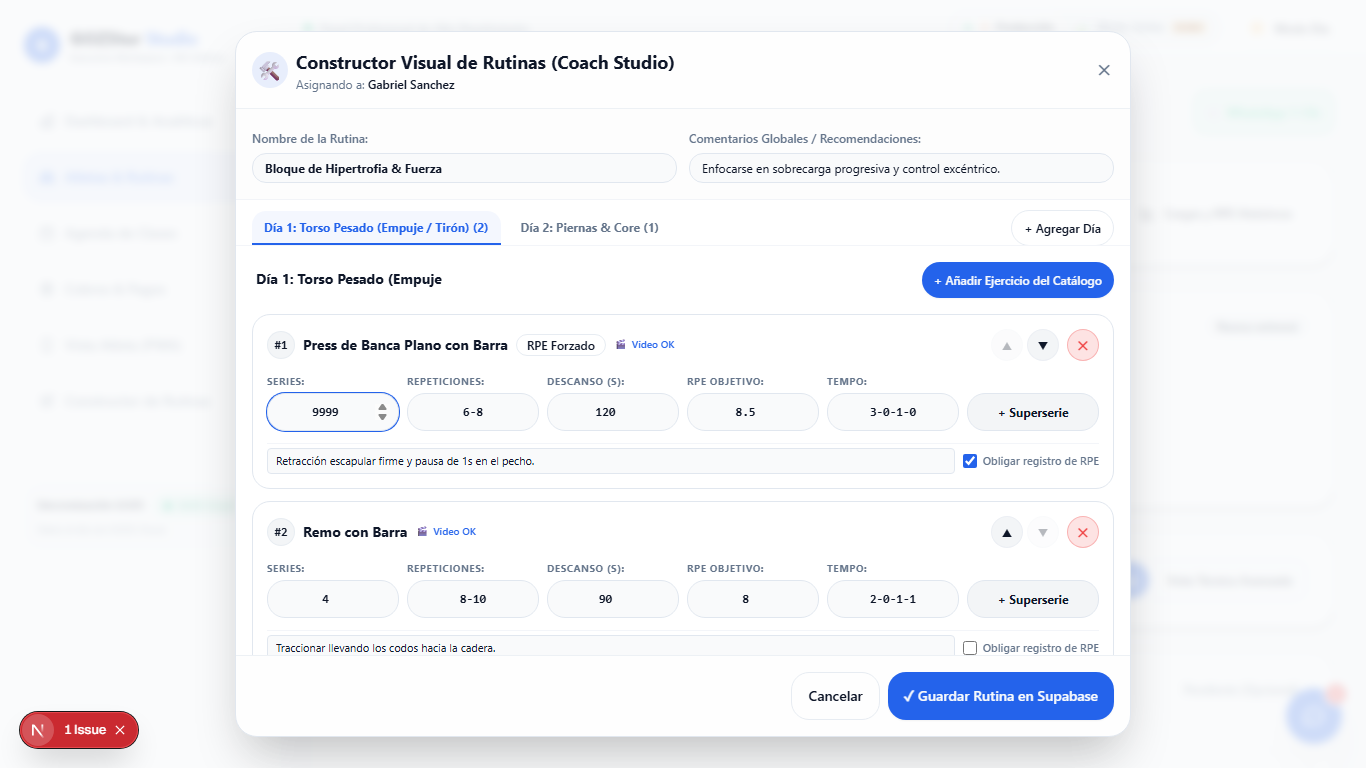
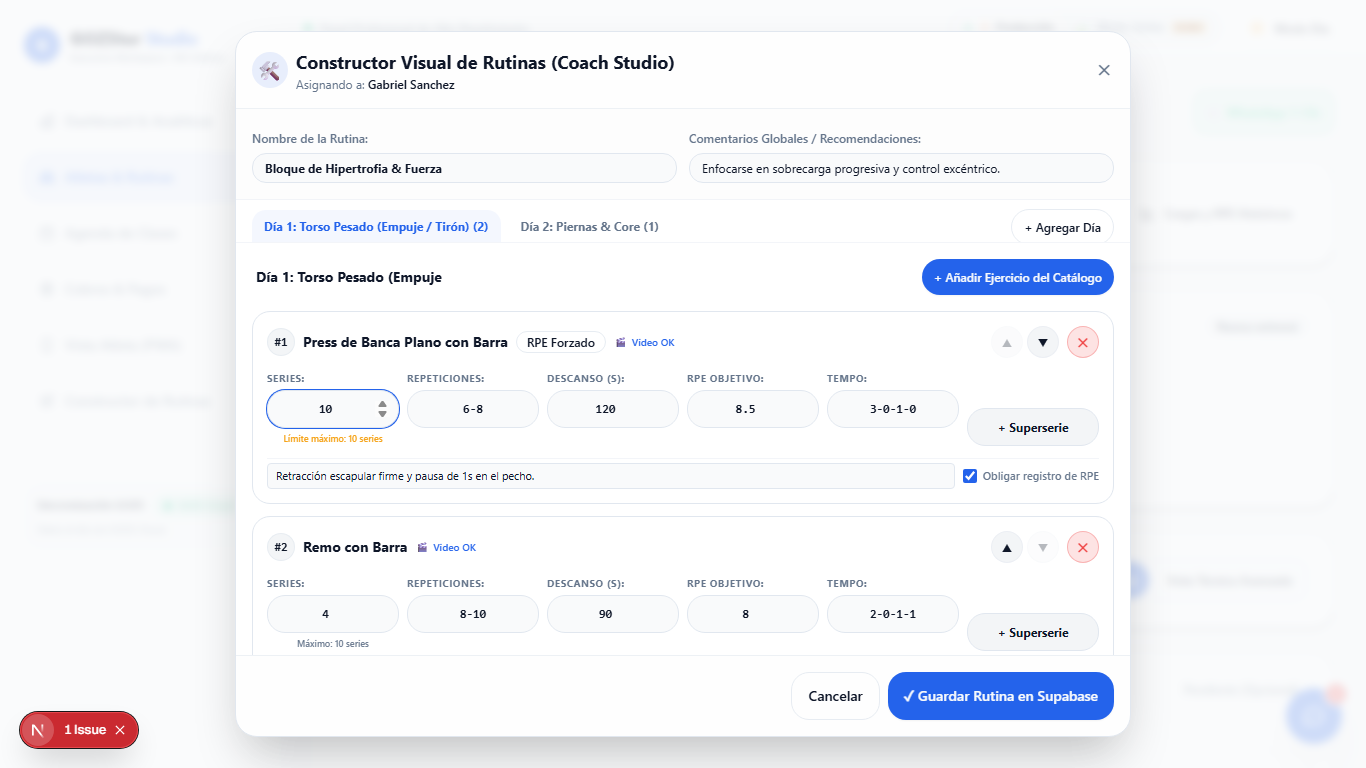
fix(ui): limitar series a max 10 con aviso claro en constructor (GOZS-210)

diff --git a/src/components/coach/routine-builder/routine-builder-modal.tsx b/src/components/coach/routine-builder/routine-builder-modal.tsx
@@ -4,6 +4,7 @@ import * as React from "react";
 import { supabase } from "@/lib/supabase/client";
 import { Button } from "@/components/ui/button";
 import { Badge } from "@/components/ui/badge";
+import { clampSeries, MAX_SERIES_PER_EXERCISE } from "@/lib/routine-helpers";
 import type { Ejercicio, DiaRutina, EjercicioEnRutina, PlanEntrenamiento } from "@/types/database.types";
 
 interface BuilderExercise {
@@ -521,17 +522,29 @@ export function RoutineBuilderModal({
                         <input
                           type="number"
                           min="1"
-                          max="10"
+                          max={MAX_SERIES_PER_EXERCISE}
                           value={ej.series}
                           onChange={(e) =>
                             handleUpdateExercise(
                               ej.id,
                               "series",
-                              parseInt(e.target.value, 10) || 1
+                              clampSeries(e.target.value)
                             )
                           }
                           className="w-full min-h-[38px] rounded-xl border border-input bg-background px-2 py-1 text-center font-mono font-bold tabular-nums text-foreground focus:outline-none focus:ring-1 focus:ring-primary"
                         />
+                        <span
+                          className={`text-[9px] block text-center mt-0.5 font-medium ${
+                            ej.series >= MAX_SERIES_PER_EXERCISE
+                              ? "text-amber-500 dark:text-amber-400"
+                              : "text-muted-foreground"
+                          }`}
+                          aria-live="polite"
+                        >
+                          {ej.series >= MAX_SERIES_PER_EXERCISE
+                            ? "Límite máximo: 10 series"
+                            : "Máximo: 10 series"}
+                        </span>
                       </div>
 
                       <div>

diff --git a/src/__tests__/routine-helpers.spec.ts b/src/__tests__/routine-helpers.spec.ts
@@ -3,6 +3,9 @@ import {
   parseDefaultReps,
   isWarmupExercise,
   sortExercisesWithWarmupFirst,
+  clampSeries,
+  MAX_SERIES_PER_EXERCISE,
+  MIN_SERIES_PER_EXERCISE,
 } from "@/lib/routine-helpers";
 
 describe("routine-helpers (Ponytail & Karpathy)", () => {
@@ -53,6 +56,39 @@ describe("routine-helpers (Ponytail & Karpathy)", () => {
       expect(sorted[1]!.nombre).toBe("Sentadilla Trasera con Barra");
       expect(sorted[2]!.nombre).toBe("Press de Banca Plano");
       expect(sorted[3]!.nombre).toBe("Press Inclinado");
+    });
+  });
+
+  describe("clampSeries (D-R6)", () => {
+    it("limita 9999 al máximo permitido de 10 series", () => {
+      expect(clampSeries(9999)).toBe(MAX_SERIES_PER_EXERCISE);
+      expect(clampSeries("9999")).toBe(10);
+    });
+
+    it("rechaza o limita valores por debajo del mínimo (<= 0 o negativos) a 1", () => {
+      expect(clampSeries(0)).toBe(MIN_SERIES_PER_EXERCISE);
+      expect(clampSeries(-5)).toBe(MIN_SERIES_PER_EXERCISE);
+      expect(clampSeries("-10")).toBe(1);
+    });
+
+    it("maneja valores vacíos o no numéricos retornando 1", () => {
+      expect(clampSeries("")).toBe(1);
+      expect(clampSeries(undefined)).toBe(1);
+      expect(clampSeries(null)).toBe(1);
+      expect(clampSeries("abc")).toBe(1);
+    });
+
+    it("preserva valores válidos dentro del rango fisiológico [1, 10]", () => {
+      expect(clampSeries(1)).toBe(1);
+      expect(clampSeries(3)).toBe(3);
+      expect(clampSeries(5)).toBe(5);
+      expect(clampSeries(10)).toBe(10);
+      expect(clampSeries("4")).toBe(4);
+    });
+
+    it("trunca números decimales a enteros válidos", () => {
+      expect(clampSeries(3.7)).toBe(3);
+      expect(clampSeries("4.2")).toBe(4);
     });
   });
 });

diff --git a/src/lib/routine-helpers.ts b/src/lib/routine-helpers.ts
@@ -73,3 +73,18 @@ export function sortExercisesWithWarmupFirst<T extends { nombre: string }>(exerc
 
   return [...warmups, ...regulars];
 }
+
+export const MIN_SERIES_PER_EXERCISE = 1;
+export const MAX_SERIES_PER_EXERCISE = 10;
+
+/**
+ * Limita el número de series al rango permitido [1, 10] (D-R6).
+ * Rechaza valores disparatados (como 9999) o negativos manteniéndolos en un rango fisiológico y seguro.
+ */
+export function clampSeries(value: number | string | undefined | null): number {
+  const num = typeof value === "number" ? value : parseInt(String(value ?? ""), 10);
+  if (Number.isNaN(num) || num < MIN_SERIES_PER_EXERCISE) return MIN_SERIES_PER_EXERCISE;
+  if (num > MAX_SERIES_PER_EXERCISE) return MAX_SERIES_PER_EXERCISE;
+  return Math.trunc(num);
+}
+

diff --git a/docs/qa/demo-evidencia/RESULTADOS.md b/docs/qa/demo-evidencia/RESULTADOS.md
@@ -20,7 +20,7 @@ D-R1 | 1366x768 | PASS | ROJO | `docs/qa/demo-evidencia/desktop-1366/D-R1.png`
 D-R2 | 1366x768 | PASS | ROJO | `docs/qa/demo-evidencia/desktop-1366/D-R2.png`
 D-R3 | 1366x768 | PASS | NARANJA | `docs/qa/demo-evidencia/desktop-1366/D-R3.png`
 D-R4 | 1366x768 | FAIL | NARANJA | `docs/qa/demo-evidencia/desktop-1366/D-R4.png`
-D-R6 | 1366x768 | FAIL | NARANJA | `docs/qa/demo-evidencia/desktop-1366/D-R6.png`
+D-R6 | 1366x768 | PASS | NARANJA | `docs/qa/demo-evidencia/desktop-1366/D-R6.png`
 D-R8 | 1366x768 | PASS | AMARILLO | `docs/qa/demo-evidencia/desktop-1366/D-R8.png`
 D-R5 | 1366x768 | PASS | NARANJA | `docs/qa/demo-evidencia/desktop-1366/D-R5.png`
 D-G1 | 1366x768 | PASS | ROJO | `docs/qa/demo-evidencia/desktop-1366/D-G1.png`
@@ -57,7 +57,7 @@ D-R1 | 1024x768 | PASS | ROJO | `docs/qa/demo-evidencia/tablet/D-R1.png`
 D-R2 | 1024x768 | PASS | ROJO | `docs/qa/demo-evidencia/tablet/D-R2.png`
 D-R3 | 1024x768 | PASS | NARANJA | `docs/qa/demo-evidencia/tablet/D-R3.png`
 D-R4 | 1024x768 | FAIL | NARANJA | `docs/qa/demo-evidencia/tablet/D-R4.png`
-D-R6 | 1024x768 | FAIL | NARANJA | `docs/qa/demo-evidencia/tablet/D-R6.png`
+D-R6 | 1024x768 | PASS | NARANJA | `docs/qa/demo-evidencia/tablet/D-R6.png`
 D-R8 | 1024x768 | PASS | AMARILLO | `docs/qa/demo-evidencia/tablet/D-R8.png`
 D-R5 | 1024x768 | PASS | NARANJA | `docs/qa/demo-evidencia/tablet/D-R5.png`
 D-G1 | 1024x768 | PASS | ROJO | `docs/qa/demo-evidencia/tablet/D-G1.png`
